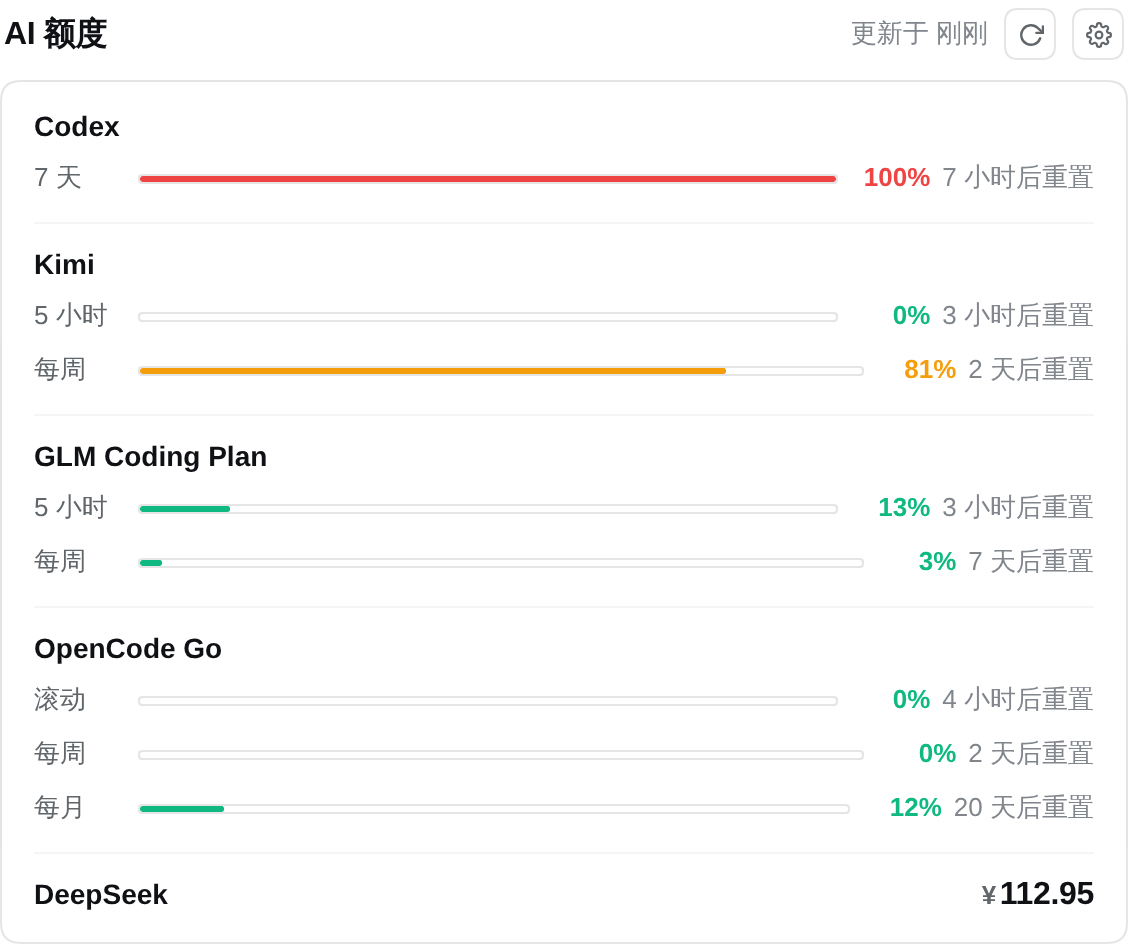
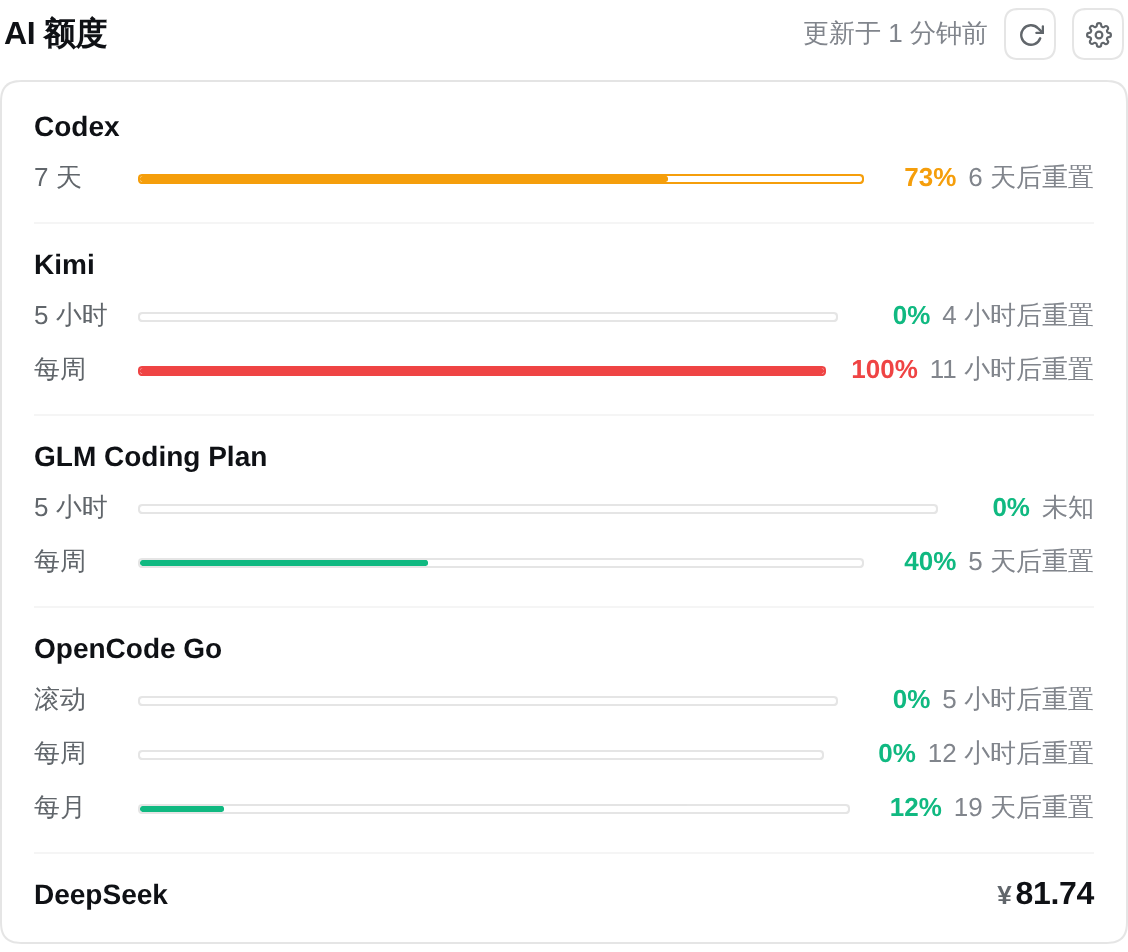
fix(settings): a warning meter tints its own hairline (v0.11.2)
A bar that had gone amber or red sat inside the same neutral grey outline as a
healthy one, so the meter read as two states at once. The track's hairline now
follows the fill once the band is amber (>= 70%) or red (>= 90%), on the
settings rows and on the composer chip's mini bar alike; a healthy bar keeps the
quiet neutral outline. Both come from one place: usageLevel() names the band and
meterBorder() maps it, so the fill, the percentage text and the outline can
never disagree.

Verified on the live GUI: amber (73%) and red (100%) rows paint their border in
the fill colour while green rows stay neutral, in the settings list and in the
chip. Route-mapping, GLM, prewarm, settings and visibility suites all pass.

diff --git a/client.js b/client.js
@@ -321,12 +321,25 @@ window.__ModuleLoader__.load({
         React.createElement("polyline", { points: "15 18 9 12 15 6" })
       );
 
-    /** Solid severity color for a used-percentage: green < 70 ≤ amber < 90 ≤ red. */
+    /** Severity band of a used-percentage: green < 70 ≤ amber < 90 ≤ red. */
+    function usageLevel(used) {
+      if (used === null) return "ok";
+      if (used >= 90) return "crit";
+      if (used >= 70) return "warn";
+      return "ok";
+    }
+
+    /** Solid severity color for a used-percentage. */
     function usageColor(used) {
-      if (used === null) return COLOR_OK;
-      if (used >= 90) return COLOR_CRIT;
-      if (used >= 70) return COLOR_WARN;
-      return COLOR_OK;
+      const level = usageLevel(used);
+      return level === "crit" ? COLOR_CRIT : level === "warn" ? COLOR_WARN : COLOR_OK;
+    }
+
+    /** The meter's hairline: neutral while healthy, the severity color once it warns. */
+    function meterBorder(level) {
+      if (level === "crit") return COLOR_CRIT;
+      if (level === "warn") return COLOR_WARN;
+      return "var(--dsh-aq-track-border, var(--dsw-alias-border-l2))";
     }
 
     /** "更新于 3 分钟前" — a snapshot's age is what matters, not the clock face. */
@@ -405,6 +418,7 @@ window.__ModuleLoader__.load({
       const { w, t } = props;
       const used = pct(w.usedPercent);
       const left = pct(w.remainingPercent);
+      const level = usageLevel(used);
       const color = usageColor(used);
       const label = windowLabel(w.name, t);
       const fill = {
@@ -417,7 +431,9 @@ window.__ModuleLoader__.load({
       const barTitle = left === null ? undefined : t("remainingShort") + " " + left + "%";
       return React.createElement("div", { style: styles.windowRow },
         React.createElement("span", { style: styles.windowLabel, title: label }, label),
-        React.createElement("div", { style: styles.barTrack, title: barTitle },
+        // The hairline follows the fill once the bar warns: a red bar in a
+        // neutral grey outline reads as two different states at once.
+        React.createElement("div", { style: { ...styles.barTrack, borderColor: meterBorder(level) }, title: barTitle },
           React.createElement("div", { style: fill })
         ),
         React.createElement("span", { style: styles.windowStat },
@@ -960,7 +976,7 @@ window.__ModuleLoader__.load({
           const color = usageColor(used);
           return React.createElement("span", { key: "seg" + i, style: { ...styles.chipSeg, marginLeft: i === 0 ? 4 : 12 } },
             React.createElement("span", { style: styles.chipSegLabel }, windowLabel(w.name, t)),
-            React.createElement("span", { style: styles.chipMiniTrack },
+            React.createElement("span", { style: { ...styles.chipMiniTrack, borderColor: meterBorder(usageLevel(used)) } },
               React.createElement("span", { style: { ...styles.chipMiniFill, width: (used === null ? 0 : used) + "%", background: color } })
             ),
             React.createElement("b", { style: { ...styles.chipValue, color } }, used === null ? "—" : used + "%"),

diff --git a/README.md b/README.md
@@ -20,7 +20,7 @@ English · [中文](README.zh-CN.md)
 - **Composer chip** — a one-line quota indicator that follows the selected **provider route** (never the model id: the same model can be served by several routes with independent quotas), on both the new-chat page and in sessions.
 - **Auto-refresh** — the host re-queries all providers every `refreshIntervalMs` (default 2 min; `0` disables) and serves a warm cache, so every surface reads instantly. An **open conversation** additionally re-reads its provider's quota every 60 s (silently, without a loading flicker), so a session left running for a while never keeps the balance it loaded with; a hidden tab is skipped and caught up when it becomes visible again.
 - **Unified format** — providers are normalized to `subscription` windows or `balance` entries; one provider failing never affects the others.
-- **Skin-aware palette** — every readout color is a CSS variable: with the [dsh-miku-skin](https://github.com/topics/dsh-plugin) Hatsune skin loaded the chip and usage bars turn soft Miku teal, and without it they keep the shipped emerald/amber/red severity colors.
+- **Skin-aware palette** — every readout color is a CSS variable: with the [dsh-miku-skin](https://github.com/topics/dsh-plugin) Hatsune skin loaded the chip and usage bars turn soft Miku teal, and without it they keep the shipped emerald/amber/red severity colors. A bar that reaches amber or red also tints its own hairline to match, so the whole meter reads as one state; a healthy bar keeps the quiet neutral outline.
 - **No secrets in output** — API keys and tokens never appear in tool output or logs.
 
 ## Install

diff --git a/README.zh-CN.md b/README.zh-CN.md
@@ -20,7 +20,7 @@ DeepSeek Harness 插件：查询你的 AI 订阅额度 / 余额 —— **Codex**
 - **输入框额度行**：跟随当前 **provider 路由**（绝不看模型 ID —— 同一个模型可能由多个路由提供、额度彼此独立）的一行极简额度提示，新建页面与会话中都显示。
 - **自动刷新**：host 每 `refreshIntervalMs`（默认 2 分钟）全量查询一次并写缓存，前端与工具秒回；`0` 关闭。此外**打开中的对话**每 60 秒静默重读一次当前 provider 的额度（不会闪加载态），所以长时间不关的会话不会一直停在打开时的旧余额；标签页隐藏时跳过，重新可见时立即补一次。
 - **统一格式**：订阅制窗口 / 余额两种形态归一化，单个 provider 失败不影响其他。
-- **跟随皮肤配色**:所有读数颜色都是 CSS 变量 —— 加载初音皮肤(dsk-miku-skin)时,输入框额度行与用量条变为柔和的初音青绿;没有皮肤时仍是原有的翠绿/琥珀/红三档。
+- **跟随皮肤配色**:所有读数颜色都是 CSS 变量 —— 加载初音皮肤(dsk-miku-skin)时,输入框额度行与用量条变为柔和的初音青绿;没有皮肤时仍是原有的翠绿/琥珀/红三档。进度条到琥珀/红档时,它自己的描边也跟着同色,整条进度条是一个状态;正常档位仍是安静的中性描边。
 - **不泄露密钥**：API key / token 永不进入工具输出、Remote 结果与日志。
 
 ## 安装
